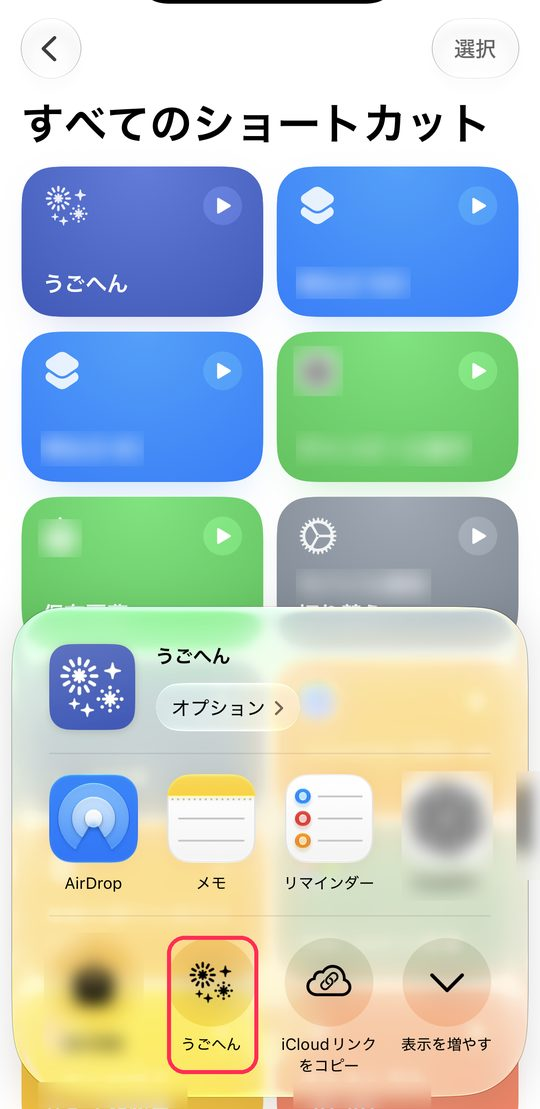
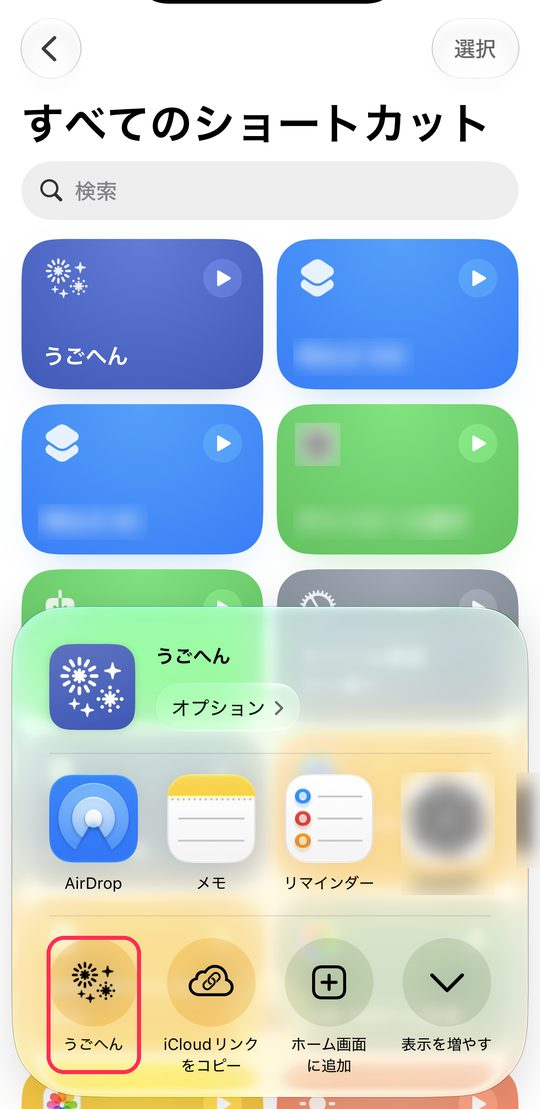
iPhone ショートカットを「うごへん」名の新しい iCloud リンクに差し替え、準備 7〜11 番のスクショを撮り直し版に
- 配布ページと shortcut.html のリンクを新しいショートカットに変更（旧リンクは旧 URL を読むため動かない）
- iPhone の手順・FAQ・shortcut.html のショートカット名を「うごへん」に
- 準備 7〜11 番の画像を「よく使う項目」が空の状態から撮り直したものに

Claude-Session: https://claude.ai/code/session_01YGb7x4P6hBqErrEvQp5bfD

diff --git a/docs/index.html b/docs/index.html
@@ -157,29 +157,29 @@
       <li class="step"><figure><img src="img/i-set-search.jpg" alt="設定アプリで「ショートカット」と検索 →「ショートカット（アプリ）」" loading="lazy"></figure><div class="txt"><span class="num">2</span><p class="head">設定アプリ<svg class="ico" viewBox="0 0 100 100" role="img" aria-label="設定"><rect width="100" height="100" rx="23" fill="#8e8e93"/><polygon points="50.0,16.0 54.4,16.3 57.0,23.9 60.3,25.1 67.0,20.6 70.7,23.0 69.1,30.9 71.4,33.6 79.4,33.0 81.4,37.0 76.1,43.0 76.8,46.5 84.0,50.0 83.7,54.4 76.1,57.0 74.9,60.3 79.4,67.0 77.0,70.7 69.1,69.1 66.4,71.4 67.0,79.4 63.0,81.4 57.0,76.1 53.5,76.8 50.0,84.0 45.6,83.7 43.0,76.1 39.7,74.9 33.0,79.4 29.3,77.0 30.9,69.1 28.6,66.4 20.6,67.0 18.6,63.0 23.9,57.0 23.2,53.5 16.0,50.0 16.3,45.6 23.9,43.0 25.1,39.7 20.6,33.0 23.0,29.3 30.9,30.9 33.6,28.6 33.0,20.6 37.0,18.6 43.0,23.9 46.5,23.2" fill="#e5e5ea"/><circle cx="50" cy="50" r="17" fill="#8e8e93"/><circle cx="50" cy="50" r="7" fill="#e5e5ea"/></svg>で「ショートカット」と検索 →「ショートカット（アプリ）」</p><p class="note">うごへんが pixiv のページの中で変換するための設定です。ここから 3 ステップ。</p></div></li>
       <li class="step"><figure><img src="img/i-set-detail.jpg" alt="「詳細」をタップ" loading="lazy"></figure><div class="txt"><span class="num">3</span><p class="head">「詳細」をタップ</p></div></li>
       <li class="step"><figure><img src="img/i-allow-script.jpg" alt="「スクリプトの実行を許可」をオン" loading="lazy"></figure><div class="txt"><span class="num">4</span><p class="head">「スクリプトの実行を許可」をオン</p><p class="note">すでにオンなら、そのままで OK。</p></div></li>
-      <li class="step text"><div class="txt"><span class="num">5</span><p class="head">「ショートカットを追加」を押す</p><p class="note"><a class="btn" href="https://www.icloud.com/shortcuts/dae74dbe309644df936f919d35fafde4">ショートカットを追加</a><br>iPhone の Safari でこのページを開いて押してください。</p></div></li>
+      <li class="step text"><div class="txt"><span class="num">5</span><p class="head">「ショートカットを追加」を押す</p><p class="note"><a class="btn" href="https://www.icloud.com/shortcuts/89f4057d7eae417399270dfc7beb98d5">ショートカットを追加</a><br>iPhone の Safari でこのページを開いて押してください。</p></div></li>
       <li class="step"><figure><img src="img/i-add.jpg" alt="もう一度「ショートカットを追加」を押す" loading="lazy"></figure><div class="txt"><span class="num">6</span><p class="head">もう一度「ショートカットを追加」を押す</p><p class="note">ショートカットアプリに追加されます。</p></div></li>
-      <li class="step"><figure><img src="img/i-sc-share.jpg" alt="ショートカットアプリで ①「うごイラ変換」を長押し → ②「共有」" loading="lazy"></figure><div class="txt"><span class="num">7</span><p class="head">ショートカットアプリで ①「うごイラ変換」を長押し → ②「共有」</p><p class="note">ここからは、うごイラ変換を共有シートの 1 段目に出すおすすめ設定です。追加した直後にそのままやっておくと、あとで探さずに済みます。</p></div></li>
+      <li class="step"><figure><img src="img/i-sc-share.jpg" alt="ショートカットアプリで ①「うごへん」を長押し → ②「共有」" loading="lazy"></figure><div class="txt"><span class="num">7</span><p class="head">ショートカットアプリで ①「うごへん」を長押し → ②「共有」</p><p class="note">ここからは、うごへんを共有シートの 1 段目に出すおすすめ設定です。追加した直後にそのままやっておくと、あとで探さずに済みます。</p></div></li>
       <li class="step"><figure><img src="img/i-sc-more.jpg" alt="「表示を増やす」" loading="lazy"></figure><div class="txt"><span class="num">8</span><p class="head">「表示を増やす」</p></div></li>
       <li class="step"><figure><img src="img/i-sc-editbtn.jpg" alt="一番下の「アクションを編集」" loading="lazy"></figure><div class="txt"><span class="num">9</span><p class="head">一番下の「アクションを編集」</p></div></li>
-      <li class="step"><figure><img src="img/i-sc-plus.jpg" alt="① うごイラ変換の緑の ＋ → ② 右上の ✓" loading="lazy"></figure><div class="txt"><span class="num">10</span><p class="head">① うごイラ変換の緑の ＋ → ② 右上の ✓</p><p class="note">「よく使う項目」に入ります。</p></div></li>
-      <li class="step"><figure><img src="img/i-sc-done.jpg" alt="1 段目に「うごイラ変換」が出れば完了" loading="lazy"></figure><div class="txt"><span class="num">11</span><p class="head">1 段目に「うごイラ変換」が出れば完了</p><p class="note">pixiv アプリや Safari で共有を開いたときも、1 段目に出るようになります。ほかに「よく使う項目」に入れているものがあると、その後ろに並ぶことがあります。</p></div></li>
+      <li class="step"><figure><img src="img/i-sc-plus.jpg" alt="① うごへんの緑の ＋ → ② 右上の ✓" loading="lazy"></figure><div class="txt"><span class="num">10</span><p class="head">① うごへんの緑の ＋ → ② 右上の ✓</p><p class="note">「よく使う項目」に入ります。</p></div></li>
+      <li class="step"><figure><img src="img/i-sc-done.jpg" alt="1 段目に「うごへん」が出れば完了" loading="lazy"></figure><div class="txt"><span class="num">11</span><p class="head">1 段目に「うごへん」が出れば完了</p><p class="note">pixiv アプリや Safari で共有を開いたときも、1 段目に出るようになります。ほかに「よく使う項目」に入れているものがあると、その後ろに並ぶことがあります。</p></div></li>
     </ol>
     <button class="btn prep-done" type="button">準備できた！（次から閉じておく）</button>
     </details>
     <h3>pixiv アプリから使うとき</h3>
     <ol class="steps">
-      <li class="callout"><p class="head">pixiv アプリからは、ショートカットを 2 回使います</p><p class="note">1 回目は作品を Safari で開くだけで、まだ変換は始まりません。Safari で開いたら、もう一度「うごイラ変換」を押すと変換が始まります。</p></li>
+      <li class="callout"><p class="head">pixiv アプリからは、ショートカットを 2 回使います</p><p class="note">1 回目は作品を Safari で開くだけで、まだ変換は始まりません。Safari で開いたら、もう一度「うごへん」を押すと変換が始まります。</p></li>
       <li class="step"><figure><img src="img/i-appmenu.jpg" alt="作品の「…」→「シェア」" loading="lazy"></figure><div class="txt"><span class="num">1</span><p class="head">作品の「…」→「シェア」</p></div></li>
-      <li class="step"><figure><img src="img/i-fav.jpg" alt="「うごイラ変換」をタップ（1 回目）" loading="lazy"></figure><div class="txt"><span class="num">2</span><p class="head">「うごイラ変換」をタップ（1 回目）</p><p class="note"><b>まだ変換は始まりません。</b>Safari で作品が開くので、下の「Safari で使うとき」に進んでください。</p></div></li>
+      <li class="step"><figure><img src="img/i-fav.jpg" alt="「うごへん」をタップ（1 回目）" loading="lazy"></figure><div class="txt"><span class="num">2</span><p class="head">「うごへん」をタップ（1 回目）</p><p class="note"><b>まだ変換は始まりません。</b>Safari で作品が開くので、下の「Safari で使うとき」に進んでください。</p></div></li>
       <li class="step"><figure><img src="img/i-allow-send.jpg" alt="初めてのときだけ：「常に許可」" loading="lazy"></figure><div class="txt"><span class="num">3</span><p class="head">初めてのときだけ：「常に許可」</p><p class="note">pixiv アプリから Safari に作品を渡してよいかの確認です。「常に許可」にしておくと次から出ません。</p></div></li>
     </ol>
     <h3>Safari で使うとき</h3>
     <ol class="steps">
       <li class="step"><figure><img src="img/i-safaripage.jpg" alt="アドレスバー左のボタンをタップ" loading="lazy"></figure><div class="txt"><span class="num">1</span><p class="head">アドレスバー左のボタンをタップ</p></div></li>
       <li class="step"><figure><img src="img/i-safarimenu.jpg" alt="「共有」をタップ" loading="lazy"></figure><div class="txt"><span class="num">2</span><p class="head">「共有」をタップ</p></div></li>
-      <li class="step"><figure><img src="img/i-safarifav.jpg" alt="「うごイラ変換」をタップ" loading="lazy"></figure><div class="txt"><span class="num">3</span><p class="head">「うごイラ変換」をタップ</p><p class="note">変換が始まります。pixiv アプリから来た場合は、これが 2 回目です。</p></div></li>
-      <li class="step"><figure><img src="img/i-allow-pixiv.jpg" alt="初めてのときだけ：「許可」" loading="lazy"></figure><div class="txt"><span class="num">4</span><p class="head">初めてのときだけ：「許可」</p><p class="note">パスワードなどの読み取りについて書かれていますが、これはショートカットがウェブページを扱うときに Apple が必ず出す決まった文言です。うごイラ変換は、作品のコマ画像を読み込んで動画にするためだけにページを使います。</p></div></li>
+      <li class="step"><figure><img src="img/i-safarifav.jpg" alt="「うごへん」をタップ" loading="lazy"></figure><div class="txt"><span class="num">3</span><p class="head">「うごへん」をタップ</p><p class="note">変換が始まります。pixiv アプリから来た場合は、これが 2 回目です。</p></div></li>
+      <li class="step"><figure><img src="img/i-allow-pixiv.jpg" alt="初めてのときだけ：「許可」" loading="lazy"></figure><div class="txt"><span class="num">4</span><p class="head">初めてのときだけ：「許可」</p><p class="note">パスワードなどの読み取りについて書かれていますが、これはショートカットがウェブページを扱うときに Apple が必ず出す決まった文言です。うごへんは、作品のコマ画像を読み込んで動画にするためだけにページを使います。</p></div></li>
       <li class="step"><figure><img src="img/i-panel.jpg" alt="終わったら「保存する」" loading="lazy"></figure><div class="txt"><span class="num">5</span><p class="head">終わったら「保存する」</p></div></li>
       <li class="step"><figure><img src="img/i-video.jpg" alt="「ビデオを保存」" loading="lazy"></figure><div class="txt"><span class="num">6</span><p class="head">「ビデオを保存」</p><p class="note">写真アプリに入ります。</p></div></li>
     </ol>
@@ -258,7 +258,7 @@
   <div class="faq">
     <details><summary>うごイラを動画（MP4）にして保存するには？</summary><p>上の手順で準備したあと、作品ページで変換して「MP4」を選びます。iPhone は「写真」アプリ、Android はギャラリーや Google フォトに動画として保存できます。</p></details>
     <details><summary>GIF にもできますか？</summary><p>できます。変換するときに「GIF」を選んでください。GIF はファイルが大きく、スマホでは時間がかかることがあります。きれいに残したいときは MP4 がおすすめです。</p></details>
-    <details><summary>iPhone でうごイラを保存するには？</summary><p>ショートカットを 1 つ追加するだけです。pixiv アプリや Safari の共有ボタンから「うごイラ変換」を選ぶと、Safari で変換して保存できます。ほかのアプリを入れる必要はありません。</p></details>
+    <details><summary>iPhone でうごイラを保存するには？</summary><p>ショートカットを 1 つ追加するだけです。pixiv アプリや Safari の共有ボタンから「うごへん」を選ぶと、Safari で変換して保存できます。ほかのアプリを入れる必要はありません。</p></details>
     <details><summary>R-18 の作品も変換できますか？</summary><p>できます。使うブラウザ（iPhone は Safari、Android は Chrome）で pixiv にログインしておけば、そのログインのまま変換します。pixiv アプリのログインとは別なので、最初に一度ブラウザでもログインしてください。</p></details>
     <details><summary>ログイン情報や作品をどこかに送っていませんか？</summary><p>送っていません。変換はすべてあなたの端末の中で行い、うごへんのサーバーはありません。パスワードを入力する場面もありません。コードはすべて <a href="https://github.com/T0bbuT/ugohen">GitHub</a> で公開しています。</p></details>
     <details><summary>お金はかかりますか？</summary><p>かかりません。変換用のサーバーを持たないので運営費がほぼかからず、広告や寄付に頼らずに続けられる作りにしています。</p></details>

diff --git a/src/index.html b/src/index.html
@@ -157,29 +157,29 @@
       <li class="step"><figure><img src="img/i-set-search.jpg" alt="設定アプリで「ショートカット」と検索 →「ショートカット（アプリ）」" loading="lazy"></figure><div class="txt"><span class="num">2</span><p class="head">設定アプリ<svg class="ico" viewBox="0 0 100 100" role="img" aria-label="設定"><rect width="100" height="100" rx="23" fill="#8e8e93"/><polygon points="50.0,16.0 54.4,16.3 57.0,23.9 60.3,25.1 67.0,20.6 70.7,23.0 69.1,30.9 71.4,33.6 79.4,33.0 81.4,37.0 76.1,43.0 76.8,46.5 84.0,50.0 83.7,54.4 76.1,57.0 74.9,60.3 79.4,67.0 77.0,70.7 69.1,69.1 66.4,71.4 67.0,79.4 63.0,81.4 57.0,76.1 53.5,76.8 50.0,84.0 45.6,83.7 43.0,76.1 39.7,74.9 33.0,79.4 29.3,77.0 30.9,69.1 28.6,66.4 20.6,67.0 18.6,63.0 23.9,57.0 23.2,53.5 16.0,50.0 16.3,45.6 23.9,43.0 25.1,39.7 20.6,33.0 23.0,29.3 30.9,30.9 33.6,28.6 33.0,20.6 37.0,18.6 43.0,23.9 46.5,23.2" fill="#e5e5ea"/><circle cx="50" cy="50" r="17" fill="#8e8e93"/><circle cx="50" cy="50" r="7" fill="#e5e5ea"/></svg>で「ショートカット」と検索 →「ショートカット（アプリ）」</p><p class="note">うごへんが pixiv のページの中で変換するための設定です。ここから 3 ステップ。</p></div></li>
       <li class="step"><figure><img src="img/i-set-detail.jpg" alt="「詳細」をタップ" loading="lazy"></figure><div class="txt"><span class="num">3</span><p class="head">「詳細」をタップ</p></div></li>
       <li class="step"><figure><img src="img/i-allow-script.jpg" alt="「スクリプトの実行を許可」をオン" loading="lazy"></figure><div class="txt"><span class="num">4</span><p class="head">「スクリプトの実行を許可」をオン</p><p class="note">すでにオンなら、そのままで OK。</p></div></li>
-      <li class="step text"><div class="txt"><span class="num">5</span><p class="head">「ショートカットを追加」を押す</p><p class="note"><a class="btn" href="https://www.icloud.com/shortcuts/dae74dbe309644df936f919d35fafde4">ショートカットを追加</a><br>iPhone の Safari でこのページを開いて押してください。</p></div></li>
+      <li class="step text"><div class="txt"><span class="num">5</span><p class="head">「ショートカットを追加」を押す</p><p class="note"><a class="btn" href="https://www.icloud.com/shortcuts/89f4057d7eae417399270dfc7beb98d5">ショートカットを追加</a><br>iPhone の Safari でこのページを開いて押してください。</p></div></li>
       <li class="step"><figure><img src="img/i-add.jpg" alt="もう一度「ショートカットを追加」を押す" loading="lazy"></figure><div class="txt"><span class="num">6</span><p class="head">もう一度「ショートカットを追加」を押す</p><p class="note">ショートカットアプリに追加されます。</p></div></li>
-      <li class="step"><figure><img src="img/i-sc-share.jpg" alt="ショートカットアプリで ①「うごイラ変換」を長押し → ②「共有」" loading="lazy"></figure><div class="txt"><span class="num">7</span><p class="head">ショートカットアプリで ①「うごイラ変換」を長押し → ②「共有」</p><p class="note">ここからは、うごイラ変換を共有シートの 1 段目に出すおすすめ設定です。追加した直後にそのままやっておくと、あとで探さずに済みます。</p></div></li>
+      <li class="step"><figure><img src="img/i-sc-share.jpg" alt="ショートカットアプリで ①「うごへん」を長押し → ②「共有」" loading="lazy"></figure><div class="txt"><span class="num">7</span><p class="head">ショートカットアプリで ①「うごへん」を長押し → ②「共有」</p><p class="note">ここからは、うごへんを共有シートの 1 段目に出すおすすめ設定です。追加した直後にそのままやっておくと、あとで探さずに済みます。</p></div></li>
       <li class="step"><figure><img src="img/i-sc-more.jpg" alt="「表示を増やす」" loading="lazy"></figure><div class="txt"><span class="num">8</span><p class="head">「表示を増やす」</p></div></li>
       <li class="step"><figure><img src="img/i-sc-editbtn.jpg" alt="一番下の「アクションを編集」" loading="lazy"></figure><div class="txt"><span class="num">9</span><p class="head">一番下の「アクションを編集」</p></div></li>
-      <li class="step"><figure><img src="img/i-sc-plus.jpg" alt="① うごイラ変換の緑の ＋ → ② 右上の ✓" loading="lazy"></figure><div class="txt"><span class="num">10</span><p class="head">① うごイラ変換の緑の ＋ → ② 右上の ✓</p><p class="note">「よく使う項目」に入ります。</p></div></li>
-      <li class="step"><figure><img src="img/i-sc-done.jpg" alt="1 段目に「うごイラ変換」が出れば完了" loading="lazy"></figure><div class="txt"><span class="num">11</span><p class="head">1 段目に「うごイラ変換」が出れば完了</p><p class="note">pixiv アプリや Safari で共有を開いたときも、1 段目に出るようになります。ほかに「よく使う項目」に入れているものがあると、その後ろに並ぶことがあります。</p></div></li>
+      <li class="step"><figure><img src="img/i-sc-plus.jpg" alt="① うごへんの緑の ＋ → ② 右上の ✓" loading="lazy"></figure><div class="txt"><span class="num">10</span><p class="head">① うごへんの緑の ＋ → ② 右上の ✓</p><p class="note">「よく使う項目」に入ります。</p></div></li>
+      <li class="step"><figure><img src="img/i-sc-done.jpg" alt="1 段目に「うごへん」が出れば完了" loading="lazy"></figure><div class="txt"><span class="num">11</span><p class="head">1 段目に「うごへん」が出れば完了</p><p class="note">pixiv アプリや Safari で共有を開いたときも、1 段目に出るようになります。ほかに「よく使う項目」に入れているものがあると、その後ろに並ぶことがあります。</p></div></li>
     </ol>
     <button class="btn prep-done" type="button">準備できた！（次から閉じておく）</button>
     </details>
     <h3>pixiv アプリから使うとき</h3>
     <ol class="steps">
-      <li class="callout"><p class="head">pixiv アプリからは、ショートカットを 2 回使います</p><p class="note">1 回目は作品を Safari で開くだけで、まだ変換は始まりません。Safari で開いたら、もう一度「うごイラ変換」を押すと変換が始まります。</p></li>
+      <li class="callout"><p class="head">pixiv アプリからは、ショートカットを 2 回使います</p><p class="note">1 回目は作品を Safari で開くだけで、まだ変換は始まりません。Safari で開いたら、もう一度「うごへん」を押すと変換が始まります。</p></li>
       <li class="step"><figure><img src="img/i-appmenu.jpg" alt="作品の「…」→「シェア」" loading="lazy"></figure><div class="txt"><span class="num">1</span><p class="head">作品の「…」→「シェア」</p></div></li>
-      <li class="step"><figure><img src="img/i-fav.jpg" alt="「うごイラ変換」をタップ（1 回目）" loading="lazy"></figure><div class="txt"><span class="num">2</span><p class="head">「うごイラ変換」をタップ（1 回目）</p><p class="note"><b>まだ変換は始まりません。</b>Safari で作品が開くので、下の「Safari で使うとき」に進んでください。</p></div></li>
+      <li class="step"><figure><img src="img/i-fav.jpg" alt="「うごへん」をタップ（1 回目）" loading="lazy"></figure><div class="txt"><span class="num">2</span><p class="head">「うごへん」をタップ（1 回目）</p><p class="note"><b>まだ変換は始まりません。</b>Safari で作品が開くので、下の「Safari で使うとき」に進んでください。</p></div></li>
       <li class="step"><figure><img src="img/i-allow-send.jpg" alt="初めてのときだけ：「常に許可」" loading="lazy"></figure><div class="txt"><span class="num">3</span><p class="head">初めてのときだけ：「常に許可」</p><p class="note">pixiv アプリから Safari に作品を渡してよいかの確認です。「常に許可」にしておくと次から出ません。</p></div></li>
     </ol>
     <h3>Safari で使うとき</h3>
     <ol class="steps">
       <li class="step"><figure><img src="img/i-safaripage.jpg" alt="アドレスバー左のボタンをタップ" loading="lazy"></figure><div class="txt"><span class="num">1</span><p class="head">アドレスバー左のボタンをタップ</p></div></li>
       <li class="step"><figure><img src="img/i-safarimenu.jpg" alt="「共有」をタップ" loading="lazy"></figure><div class="txt"><span class="num">2</span><p class="head">「共有」をタップ</p></div></li>
-      <li class="step"><figure><img src="img/i-safarifav.jpg" alt="「うごイラ変換」をタップ" loading="lazy"></figure><div class="txt"><span class="num">3</span><p class="head">「うごイラ変換」をタップ</p><p class="note">変換が始まります。pixiv アプリから来た場合は、これが 2 回目です。</p></div></li>
-      <li class="step"><figure><img src="img/i-allow-pixiv.jpg" alt="初めてのときだけ：「許可」" loading="lazy"></figure><div class="txt"><span class="num">4</span><p class="head">初めてのときだけ：「許可」</p><p class="note">パスワードなどの読み取りについて書かれていますが、これはショートカットがウェブページを扱うときに Apple が必ず出す決まった文言です。うごイラ変換は、作品のコマ画像を読み込んで動画にするためだけにページを使います。</p></div></li>
+      <li class="step"><figure><img src="img/i-safarifav.jpg" alt="「うごへん」をタップ" loading="lazy"></figure><div class="txt"><span class="num">3</span><p class="head">「うごへん」をタップ</p><p class="note">変換が始まります。pixiv アプリから来た場合は、これが 2 回目です。</p></div></li>
+      <li class="step"><figure><img src="img/i-allow-pixiv.jpg" alt="初めてのときだけ：「許可」" loading="lazy"></figure><div class="txt"><span class="num">4</span><p class="head">初めてのときだけ：「許可」</p><p class="note">パスワードなどの読み取りについて書かれていますが、これはショートカットがウェブページを扱うときに Apple が必ず出す決まった文言です。うごへんは、作品のコマ画像を読み込んで動画にするためだけにページを使います。</p></div></li>
       <li class="step"><figure><img src="img/i-panel.jpg" alt="終わったら「保存する」" loading="lazy"></figure><div class="txt"><span class="num">5</span><p class="head">終わったら「保存する」</p></div></li>
       <li class="step"><figure><img src="img/i-video.jpg" alt="「ビデオを保存」" loading="lazy"></figure><div class="txt"><span class="num">6</span><p class="head">「ビデオを保存」</p><p class="note">写真アプリに入ります。</p></div></li>
     </ol>
@@ -258,7 +258,7 @@
   <div class="faq">
     <details><summary>うごイラを動画（MP4）にして保存するには？</summary><p>上の手順で準備したあと、作品ページで変換して「MP4」を選びます。iPhone は「写真」アプリ、Android はギャラリーや Google フォトに動画として保存できます。</p></details>
     <details><summary>GIF にもできますか？</summary><p>できます。変換するときに「GIF」を選んでください。GIF はファイルが大きく、スマホでは時間がかかることがあります。きれいに残したいときは MP4 がおすすめです。</p></details>
-    <details><summary>iPhone でうごイラを保存するには？</summary><p>ショートカットを 1 つ追加するだけです。pixiv アプリや Safari の共有ボタンから「うごイラ変換」を選ぶと、Safari で変換して保存できます。ほかのアプリを入れる必要はありません。</p></details>
+    <details><summary>iPhone でうごイラを保存するには？</summary><p>ショートカットを 1 つ追加するだけです。pixiv アプリや Safari の共有ボタンから「うごへん」を選ぶと、Safari で変換して保存できます。ほかのアプリを入れる必要はありません。</p></details>
     <details><summary>R-18 の作品も変換できますか？</summary><p>できます。使うブラウザ（iPhone は Safari、Android は Chrome）で pixiv にログインしておけば、そのログインのまま変換します。pixiv アプリのログインとは別なので、最初に一度ブラウザでもログインしてください。</p></details>
     <details><summary>ログイン情報や作品をどこかに送っていませんか？</summary><p>送っていません。変換はすべてあなたの端末の中で行い、うごへんのサーバーはありません。パスワードを入力する場面もありません。コードはすべて <a href="https://github.com/T0bbuT/ugohen">GitHub</a> で公開しています。</p></details>
     <details><summary>お金はかかりますか？</summary><p>かかりません。変換用のサーバーを持たないので運営費がほぼかからず、広告や寄付に頼らずに続けられる作りにしています。</p></details>

diff --git a/docs/shortcut.html b/docs/shortcut.html
@@ -31,7 +31,7 @@
 
   <section>
     <h2>できあがったものを使う</h2>
-    <p><a class="btn" href="https://www.icloud.com/shortcuts/dae74dbe309644df936f919d35fafde4">ショートカットを追加</a></p>
+    <p><a class="btn" href="https://www.icloud.com/shortcuts/89f4057d7eae417399270dfc7beb98d5">ショートカットを追加</a></p>
     <p class="note">このショートカットは、実行のたびに <a href="https://github.com/T0bbuT/ugohen">GitHub で公開しているコード</a> の最新版を GitHub Pages から読み込んで動きます。利用者のデータをどこかに送ることはありません。</p>
     <p class="note">以下は自分で作る場合の手順です。</p>
   </section>
@@ -46,7 +46,7 @@
     <h2>2. ショートカットを作る</h2>
     <p class="note">1 つのショートカットで、pixiv アプリから呼んだ時は「Safari で開く」、Safari から呼んだ時は「変換する」を切り替えます。</p>
     <ol>
-      <li>「ショートカット」アプリで右上の <b>＋</b>。名前を <b>うごイラ変換</b> にする</li>
+      <li>「ショートカット」アプリで右上の <b>＋</b>。名前を <b>うごへん</b> にする</li>
       <li>下の <b>ⓘ（詳細）</b> で <b>共有シートに表示</b> をオン。一番上の「共有シートから○○を受け取る」の種類を <b>Safari Web ページ</b>・<b>URL</b>・<b>テキスト</b> の 3 つにする</li>
       <li>アクション <b>種類を取得</b> を追加（入力は「ショートカットの入力」）</li>
       <li>アクション <b>テキストを照合</b> を追加。パターンに <code>Safari</code>、対象（青い文字）をタップして「<b>種類</b>」にする</li>
@@ -78,8 +78,8 @@ If文の終了</pre>
     <h2>3. 試す</h2>
     <ol>
       <li>Safari で <a href="https://accounts.pixiv.net/login" target="_blank" rel="noopener">pixiv にログイン</a>しておく（R-18 を変換するのに必要。アプリのログインとは別です）</li>
-      <li>pixiv アプリから: 作品の共有 → <b>うごイラ変換</b> → Safari で作品が開く → 次の手順へ</li>
-      <li>Safari で: Safari 自体の共有メニュー（アドレスバー左のアイコン →「共有」）→ <b>うごイラ変換</b>。pixiv のページ内にある共有ボタンではありません。初回は pixiv での実行を「許可」</li>
+      <li>pixiv アプリから: 作品の共有 → <b>うごへん</b> → Safari で作品が開く → 次の手順へ</li>
+      <li>Safari で: Safari 自体の共有メニュー（アドレスバー左のアイコン →「共有」）→ <b>うごへん</b>。pixiv のページ内にある共有ボタンではありません。初回は pixiv での実行を「許可」</li>
       <li>ショートカットはすぐ終わり、ページ右下のパネルで変換が進む</li>
       <li>終わったら <b>保存する</b> →「<b>ビデオを保存</b>」で写真に入る</li>
     </ol>

diff --git a/src/shortcut.html b/src/shortcut.html
@@ -31,7 +31,7 @@
 
   <section>
     <h2>できあがったものを使う</h2>
-    <p><a class="btn" href="https://www.icloud.com/shortcuts/dae74dbe309644df936f919d35fafde4">ショートカットを追加</a></p>
+    <p><a class="btn" href="https://www.icloud.com/shortcuts/89f4057d7eae417399270dfc7beb98d5">ショートカットを追加</a></p>
     <p class="note">このショートカットは、実行のたびに <a href="https://github.com/T0bbuT/ugohen">GitHub で公開しているコード</a> の最新版を GitHub Pages から読み込んで動きます。利用者のデータをどこかに送ることはありません。</p>
     <p class="note">以下は自分で作る場合の手順です。</p>
   </section>
@@ -46,7 +46,7 @@
     <h2>2. ショートカットを作る</h2>
     <p class="note">1 つのショートカットで、pixiv アプリから呼んだ時は「Safari で開く」、Safari から呼んだ時は「変換する」を切り替えます。</p>
     <ol>
-      <li>「ショートカット」アプリで右上の <b>＋</b>。名前を <b>うごイラ変換</b> にする</li>
+      <li>「ショートカット」アプリで右上の <b>＋</b>。名前を <b>うごへん</b> にする</li>
       <li>下の <b>ⓘ（詳細）</b> で <b>共有シートに表示</b> をオン。一番上の「共有シートから○○を受け取る」の種類を <b>Safari Web ページ</b>・<b>URL</b>・<b>テキスト</b> の 3 つにする</li>
       <li>アクション <b>種類を取得</b> を追加（入力は「ショートカットの入力」）</li>
       <li>アクション <b>テキストを照合</b> を追加。パターンに <code>Safari</code>、対象（青い文字）をタップして「<b>種類</b>」にする</li>
@@ -78,8 +78,8 @@ If文の終了</pre>
     <h2>3. 試す</h2>
     <ol>
       <li>Safari で <a href="https://accounts.pixiv.net/login" target="_blank" rel="noopener">pixiv にログイン</a>しておく（R-18 を変換するのに必要。アプリのログインとは別です）</li>
-      <li>pixiv アプリから: 作品の共有 → <b>うごイラ変換</b> → Safari で作品が開く → 次の手順へ</li>
-      <li>Safari で: Safari 自体の共有メニュー（アドレスバー左のアイコン →「共有」）→ <b>うごイラ変換</b>。pixiv のページ内にある共有ボタンではありません。初回は pixiv での実行を「許可」</li>
+      <li>pixiv アプリから: 作品の共有 → <b>うごへん</b> → Safari で作品が開く → 次の手順へ</li>
+      <li>Safari で: Safari 自体の共有メニュー（アドレスバー左のアイコン →「共有」）→ <b>うごへん</b>。pixiv のページ内にある共有ボタンではありません。初回は pixiv での実行を「許可」</li>
       <li>ショートカットはすぐ終わり、ページ右下のパネルで変換が進む</li>
       <li>終わったら <b>保存する</b> →「<b>ビデオを保存</b>」で写真に入る</li>
     </ol>
